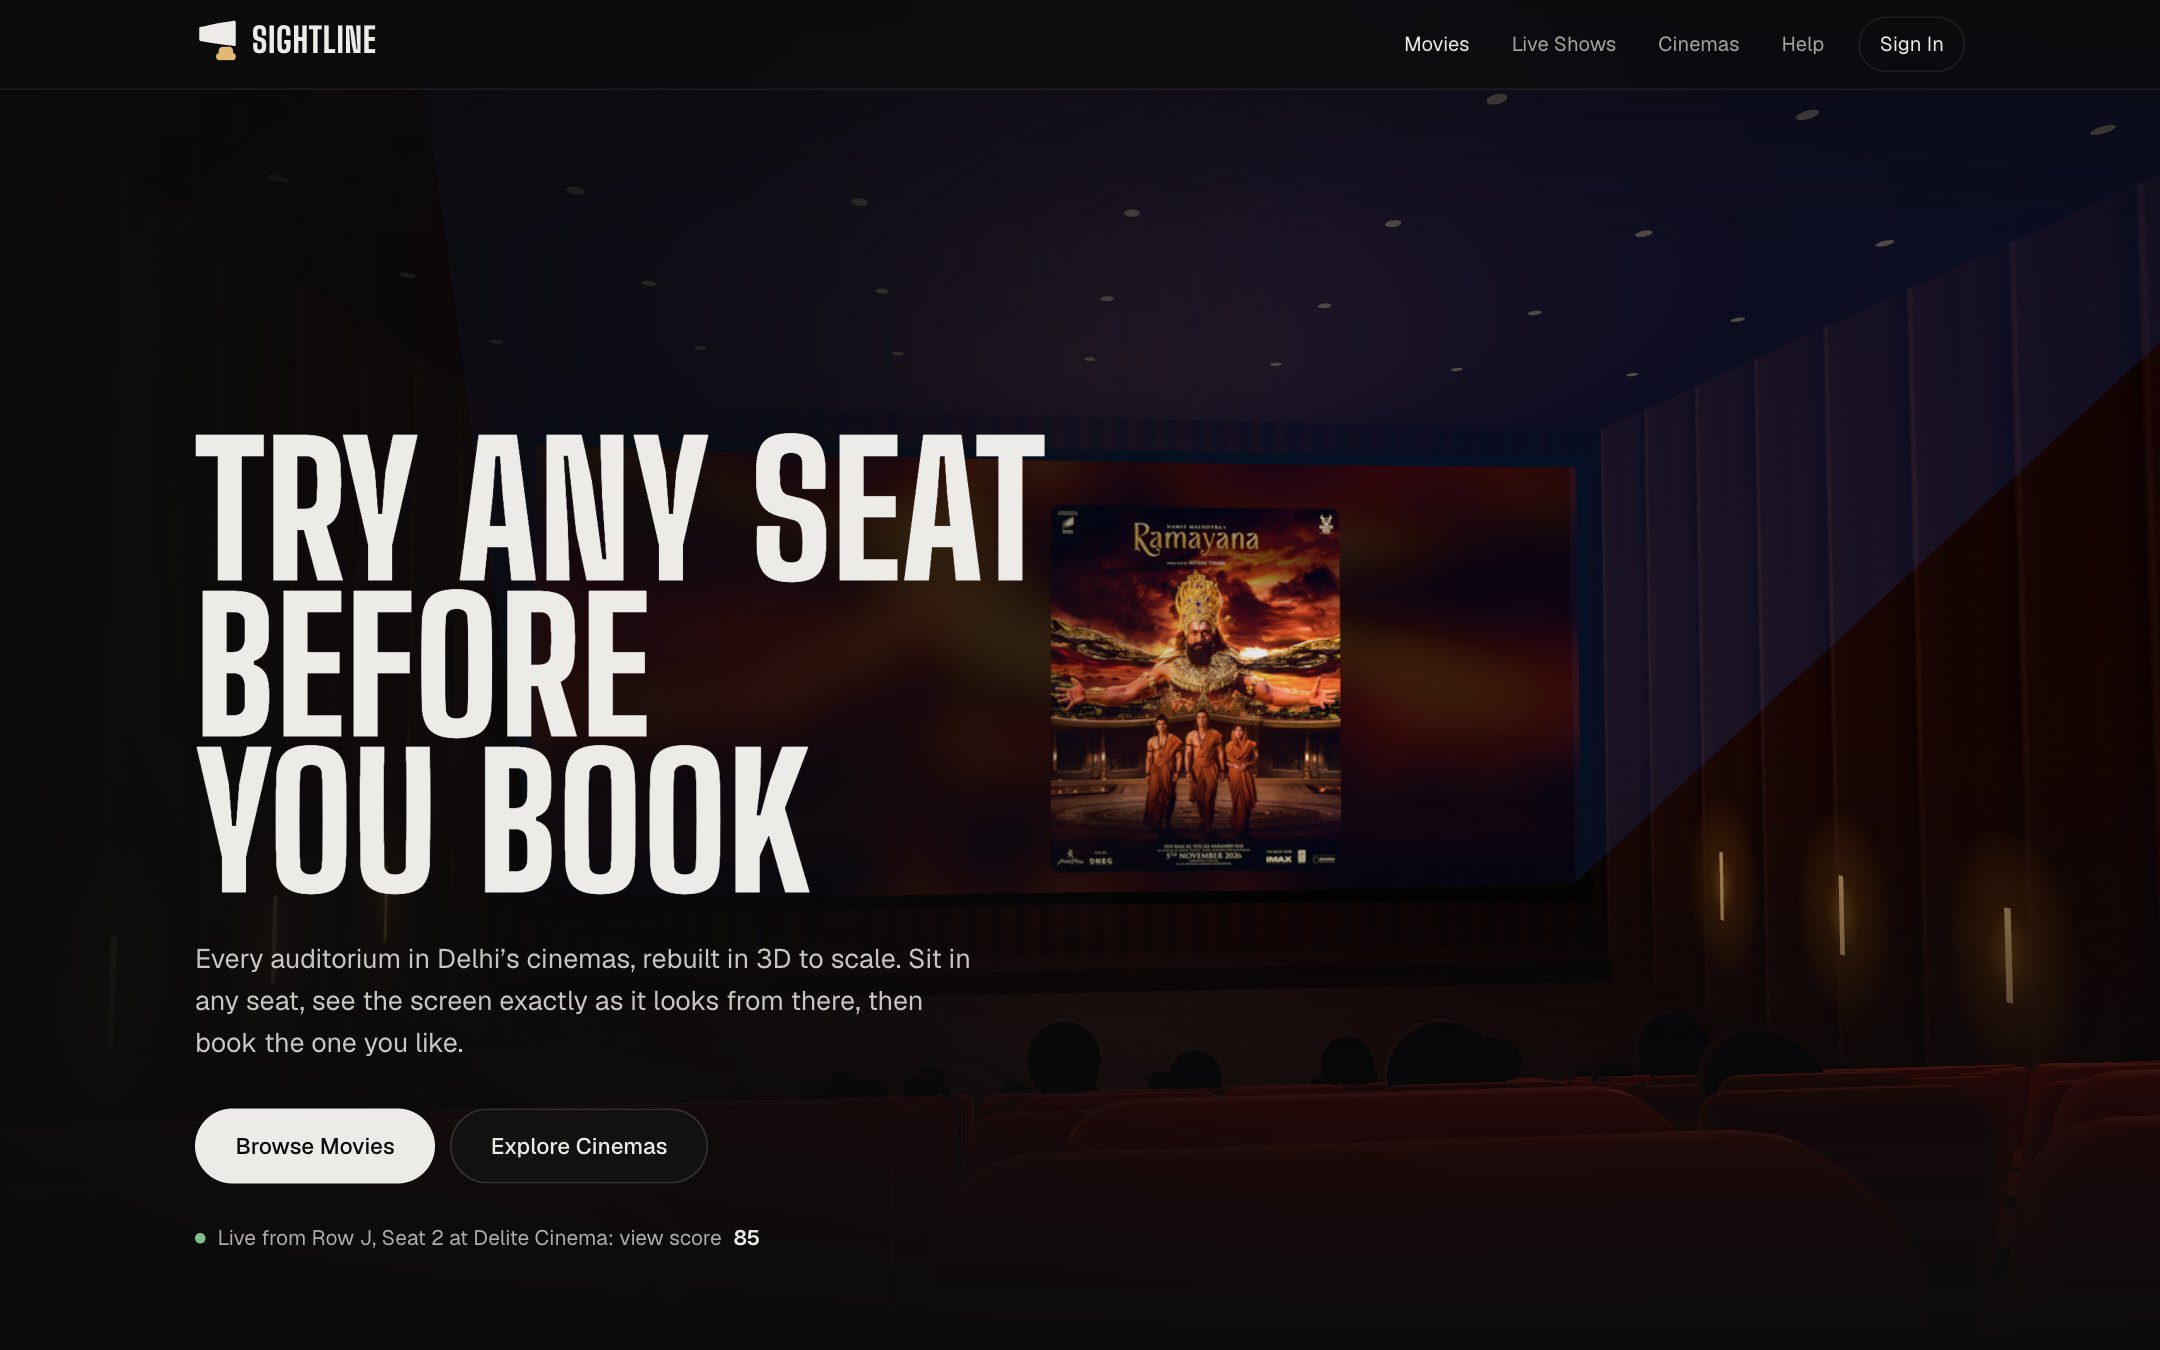
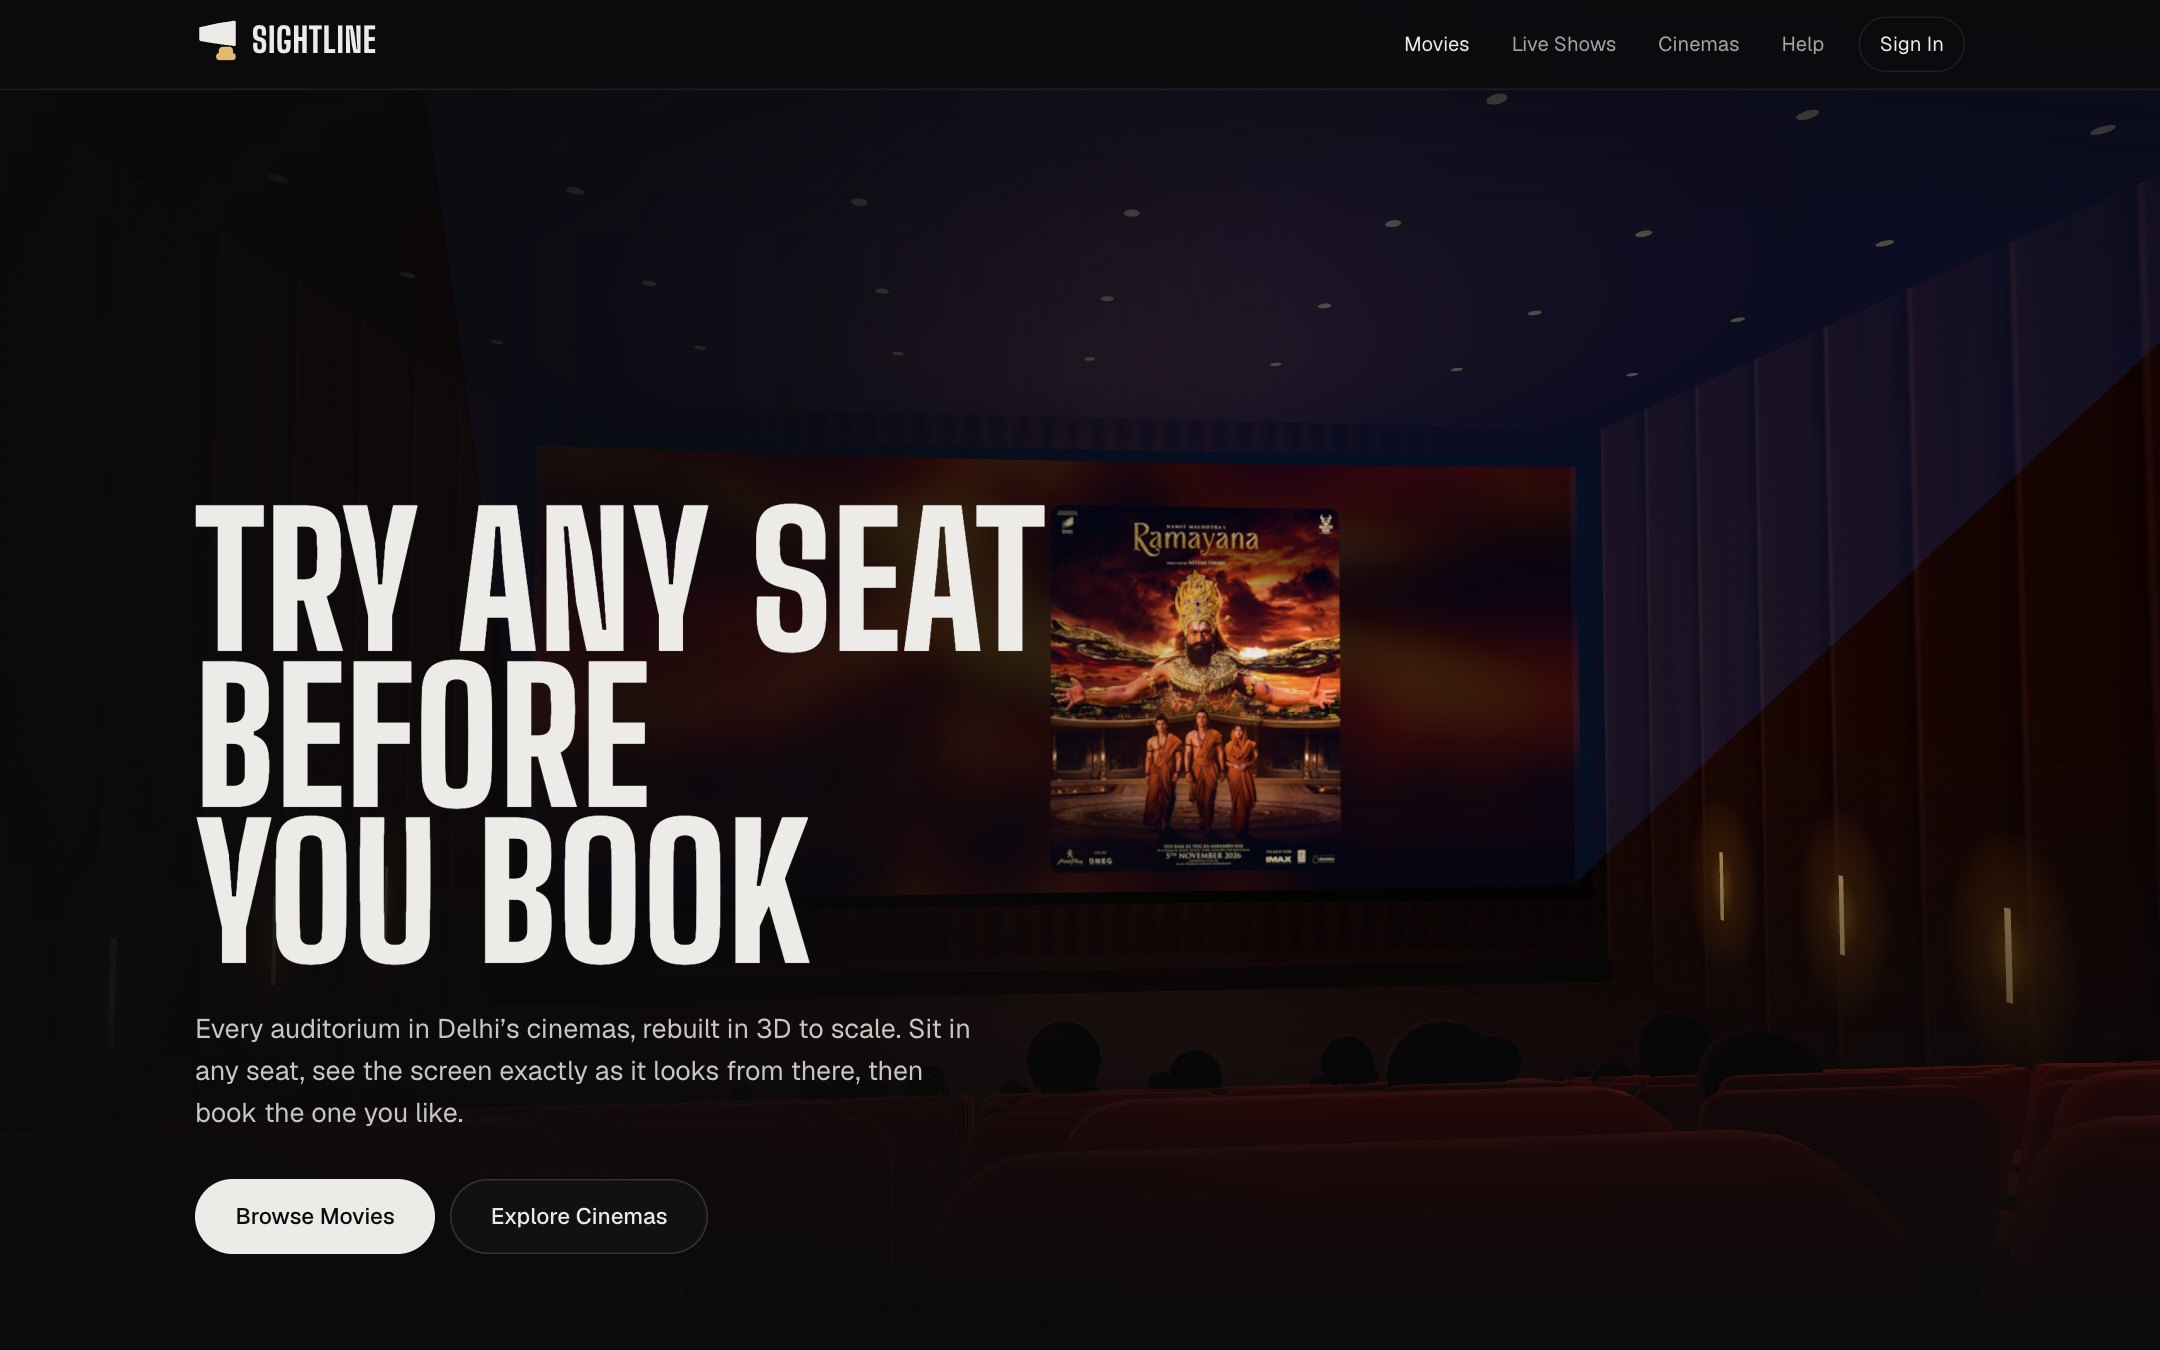
feat(home): let the hero and seat comparison speak for themselves
- Remove the live seat line under the hero buttons
- Show the two-seat renders on their own, with the sentence above
  saying which is the front row and which the best seat

Changed region(s): [[0.0931, 0.3111, 0.4963, 0.9333]]

diff --git a/src/pages/Home.tsx b/src/pages/Home.tsx
@@ -4,7 +4,6 @@ import { Search } from 'lucide-react';
 import { Backdrop, Poster } from '../components/Art';
 import EventCard from '../components/EventCard';
 import MovieCard from '../components/MovieCard';
-import HallPlan from '../components/HallPlan';
 import { CINEMAS } from '../data/cinemas';
 import { sized } from '../data/photos';
 import { EVENTS, MOVIES, languages, crowdFor, dateKey, formatDate, formatTime, showsFor, upcomingDays, venueOf, type Show } from '../data/movies';
@@ -37,8 +36,6 @@ function tourSeats(layout: HallLayout, taken: Set<string>): Seat[] {
   return [layout.byId.get(layout.bestSeatId)!, free(Math.floor(g.length * 0.55), 1), free(g.length - 1, middle(g.length - 1)), free(front, middle(front))];
 }
 
-const tilt = (deg: number) => `${Math.abs(Math.round(deg))}° ${deg >= 0 ? 'up' : 'down'}`;
-
 export default function Home() {
   useTitle();
   const [params, setParams] = useSearchParams();
@@ -66,15 +63,7 @@ export default function Home() {
   const heroTaken = useMemo(() => (heroShow ? crowdFor(heroShow, heroLayout) : new Set<string>()), [heroShow, heroLayout]);
   const tour = useMemo(() => tourSeats(heroLayout, heroTaken), [heroLayout, heroTaken]);
   const heroVenue = heroShow ? venueOf(heroShow) : null;
-  const [seat, setSeat] = useState<Seat | null>(null);
   const [live, setLive] = useState(false);
-
-  // the two seats compared further down, in the same large-screen auditorium
-  const big = getLayout('h2');
-  const front = big.byId.get('C11')!;
-  const best = big.byId.get(big.bestSeatId)!;
-  const fm = big.metrics[front.index];
-  const bm = big.metrics[best.index];
 
   const cinemaCount = (movieId: string) => new Set(showsFor(MOVIES.find((x) => x.id === movieId)!, today).map((g) => g.cinemaId)).size;
   const needle = query.trim().toLowerCase();
@@ -95,7 +84,6 @@ export default function Home() {
               movie={featured}
               occupied={heroTaken}
               tour={tour}
-              onSeat={setSeat}
               onReady={() => setLive(true)}
             />
           </Suspense>
@@ -123,19 +111,6 @@ export default function Home() {
                 Explore Cinemas
               </Link>
             </div>
-            {heroVenue ? (
-              <p className={`hx-now home-hero-live ${live && seat ? 'on' : ''}`} aria-live="polite">
-                <span className="hx-now-dot" aria-hidden="true" />
-                {seat ? (
-                  <>
-                    Live from Row {seat.rowLabel}, Seat {seat.number} at {heroVenue.cinema.name}: view score{' '}
-                    <b>{Math.round(heroLayout.metrics[seat.index].score)}</b>
-                  </>
-                ) : (
-                  'Loading the hall'
-                )}
-              </p>
-            ) : null}
           </div>
 
         </div>
@@ -195,33 +170,28 @@ export default function Home() {
               Same hall, two seats
             </h2>
             <p className="muted hs-lede">
-              A seat map tells you where you’ll sit. SightLine shows what you’ll see from there, from a camera placed at seated eye level in a
-              hall built to scale.
+              A seat map tells you where you’ll sit. SightLine shows what you’ll see from there: first from the front row, then from the
+              best seat in the house.
             </p>
           </div>
         </div>
         <div className="cmp">
-          {[
-            { key: 'front', label: 'Front row', seat: front, metrics: fm, img: '/home/front-row.jpg', alt: 'The screen seen from front-row seat C11: it towers above you and spills past both edges of your view' },
-            { key: 'best', label: 'Best seat', seat: best, metrics: bm, img: '/home/best-seat.jpg', alt: 'The screen seen from seat M11: the whole picture sits at eye level, framed by the hall' },
-          ].map((c) => (
-            <figure key={c.key} className={`cmp-card ${c.key === 'best' ? 'is-best' : ''}`}>
-              <img src={c.img} width={1780} height={980} loading="lazy" decoding="async" alt={c.alt} />
-              <figcaption className="cmp-body">
-                <span className="cmp-score">{Math.round(c.metrics.score)}</span>
-                <span className="cmp-text">
-                  <span className="cmp-label">{c.label}</span>
-                  <b>
-                    Row {c.seat.rowLabel}, Seat {c.seat.number}
-                  </b>
-                  <span>
-                    {c.metrics.distance.toFixed(1)} m from the screen, head tilted {tilt(c.metrics.elevation)}
-                  </span>
-                </span>
-                <HallPlan layout={big} highlight={c.seat.id} className="cmp-plan" />
-              </figcaption>
-            </figure>
-          ))}
+          <img
+            src="/home/front-row.jpg"
+            width={1780}
+            height={980}
+            loading="lazy"
+            decoding="async"
+            alt="The screen seen from the front row, seat C11: it towers above you and spills past both edges of your view"
+          />
+          <img
+            src="/home/best-seat.jpg"
+            width={1780}
+            height={980}
+            loading="lazy"
+            decoding="async"
+            alt="The screen seen from the best seat, M11: the whole picture sits at eye level, framed by the hall"
+          />
         </div>
       </section>
 

diff --git a/src/styles.css b/src/styles.css
@@ -902,26 +902,8 @@ span.actions { display: flex; justify-content: flex-end; }
 
 /* the same hall from two seats */
 .cmp { display: grid; grid-template-columns: repeat(2, minmax(0, 1fr)); gap: 20px; }
-.cmp-card { margin: 0; display: flex; flex-direction: column; border-radius: 18px; overflow: hidden; background: var(--surface); border: 1px solid var(--line); }
-.cmp-card > img { display: block; width: 100%; height: auto; aspect-ratio: 1780 / 980; object-fit: cover; }
-.cmp-body { display: grid; grid-template-columns: auto minmax(0, 1fr) 132px; align-items: center; gap: 18px; padding: 20px 22px 22px; border-top: 1px solid var(--line); }
-.cmp-score { font-family: var(--font-display); font-weight: 800; font-size: 68px; line-height: 0.8; font-variant-numeric: tabular-nums; min-width: 1.5ch; }
-.is-best .cmp-score { color: var(--accent); }
-.cmp-text { display: grid; gap: 3px; font-size: 14px; line-height: 1.45; color: var(--muted); }
-.cmp-label { font-size: 13px; color: var(--faint); }
-.is-best .cmp-label { color: var(--accent); }
-.cmp-text b { font-size: 16px; font-weight: 600; color: var(--text); }
-.hall-plan { display: block; width: 100%; height: auto; }
-.hall-plan rect { fill: var(--seat-free); }
-.hall-plan rect.on { fill: var(--text); }
-.is-best .hall-plan rect.on { fill: var(--accent); }
-.hall-plan-screen { stroke: rgba(255, 255, 255, 0.7); stroke-width: 0.9; }
+.cmp img { display: block; width: 100%; height: auto; aspect-ratio: 1780 / 980; object-fit: cover; border-radius: 18px; border: 1px solid var(--line); background: var(--bg-2); }
 
-/* the line under the hero buttons naming the seat the camera is in */
-.hx-now { display: flex; align-items: center; gap: 8px; margin-top: 26px; font-size: 14px; color: rgba(236, 235, 231, 0.72); opacity: 0; transition: opacity 0.4s ease; }
-.hx-now.on { opacity: 1; }
-.hx-now b { color: var(--text); font-weight: 600; font-variant-numeric: tabular-nums; }
-.hx-now-dot { flex: none; width: 7px; height: 7px; border-radius: 50%; background: var(--available); }
 
 /* cinemas as photo tiles */
 .ct-grid { list-style: none; margin: 0; padding: 0; display: grid; grid-template-columns: repeat(4, minmax(0, 1fr)); gap: 12px; }
@@ -949,9 +931,6 @@ span.actions { display: flex; justify-content: flex-end; }
   .cmp { grid-template-columns: 1fr; }
 }
 @media (max-width: 520px) {
-  .cmp-body { grid-template-columns: auto minmax(0, 1fr); }
-  .cmp-plan { display: none; }
-  .cmp-score { font-size: 52px; }
   .ct-text b { font-size: 22px; }
 }
 @media (prefers-reduced-motion: reduce) { .hx-title, .hx-lede { animation: none; } }

diff --git a/src/components/HeroHall.tsx b/src/components/HeroHall.tsx
@@ -11,7 +11,7 @@ interface Props {
   occupied: Set<string>;
   /** seats to visit, in order */
   tour: Seat[];
-  onSeat: (seat: Seat) => void;
+  onSeat?: (seat: Seat) => void;
   onReady: () => void;
 }
 
@@ -56,7 +56,7 @@ export default function HeroHall({ layout, movie, occupied, tour, onSeat, onRead
       if (!visible || document.hidden) return;
       const seat = tour[step % tour.length];
       scene.enterSeatView(seat.id, GLIDE);
-      cb.current.onSeat(seat);
+      cb.current.onSeat?.(seat);
       step += 1;
       if (reduced) return; // one still seat view, no tour
       timer = window.setTimeout(next, HOLD_SEAT);

diff --git a/tests/e2e/test_flows.py b/tests/e2e/test_flows.py
@@ -74,20 +74,18 @@ def run() -> None:
 
         def live_hall():
             # the 3D hall loads after the page and starts its tour
-            expect(page.locator(".home-hero-live.on")).to_contain_text("view score", timeout=20000)
+            expect(page.locator(".hx-still.off")).to_have_count(1, timeout=20000)
             expect(page.locator(".hero-hall canvas")).to_have_count(1)
 
         check("home: the live 3D hall starts", live_hall)
 
         def seat_comparison():
-            cards = page.locator(".cmp-card")
-            expect(cards).to_have_count(2)
-            scores = [int(cards.nth(i).locator(".cmp-score").inner_text()) for i in range(2)]
-            assert scores[1] > scores[0], f"the best seat should outscore the front row: {scores}"
-            page.wait_for_function("[...document.querySelectorAll('.cmp-card img')].every(i => i.naturalWidth > 0 || i.loading === 'lazy')")
-            expect(cards.nth(1).locator(".hall-plan rect.on")).to_have_count(1)
+            shots = page.locator(".cmp img")
+            expect(shots).to_have_count(2)
+            shots.nth(1).scroll_into_view_if_needed()
+            page.wait_for_function("[...document.querySelectorAll('.cmp img')].every(i => i.complete && i.naturalWidth > 0)", timeout=15000)
 
-        check("home: the two-seat comparison shows both scores", seat_comparison)
+        check("home: the two-seat comparison shows both views", seat_comparison)
 
         def language_filter():
             page.get_by_role("button", name="Tamil", exact=True).click()

diff --git a/DESIGN.md b/DESIGN.md
@@ -299,15 +299,12 @@ Two families. Anything pressed is a full pill (`999px`): buttons, chips, tabs, s
 
 ### Home Hero
 - The live 3D hall fills the first screen, playing the lead movie with its real poster on the screen, placed right of centre so it stays clear of the headline. The camera flies in once, then glides slowly from seat to seat (the best seat, an off-centre seat, the back row, near the front).
-- Left: the Marquee Hero headline, capped at about five of its own letter-widths so it wraps to three lines and never covers the poster; one sentence on how it works; Browse Movies (Primary) and Explore Cinemas (Glass); then one quiet line with an Available dot naming the seat the camera is in, its cinema and its view score. No panel or card sits over the hall.
+- Left: the Marquee Hero headline, capped at about five of its own letter-widths so it wraps to three lines and never covers the poster; one sentence on how it works; then Browse Movies (Primary) and Explore Cinemas (Glass). Nothing else sits over the hall: no panel, card or caption.
 - The headline and sentence rise in once on load (reduced motion: no movement). A scrim darkens the left for the copy and fades into the page at the bottom.
 - Under 860px the hall gets its own frame at the top, about half the screen tall, and the headline overlaps its lower edge.
 
 ### Seat Comparison
-- "Same hall, two seats": two cards side by side (stacked on phones), each a real render of the same large-screen auditorium with the house lights up, one from the front row and one from the best seat. Below each render, never over it: the view score as a large marquee number (Paper for the front row, Tungsten for the best seat), a small label ("Front row", "Best seat" in Tungsten), the seat name, its distance and head tilt, and a small Hall Plan with that seat marked. The plan is dropped on narrow phones.
-
-### Hall Plan
-- A small static plan drawn from a hall's real geometry: the screen as a thin Paper arc, every seat as a Seat Free square, and one marked seat (Paper, or Tungsten for the best seat). Used only in the Seat Comparison, beside text that states the same facts.
+- "Same hall, two seats": two real renders of the same large-screen auditorium with the house lights up, side by side (stacked on phones): first from the front row, then from the best seat. The images stand alone in rounded frames with a hairline border; the sentence above says which is which. No caption, overlay or score on the images.
 
 ### Cinema Tiles
 - On the home page all eight cinemas sit in a 4 by 2 grid of 4:3 photo tiles (2 columns on tablets and phones), each a link: the photo, a dark fade at the bottom, the name in marquee capitals and the area beneath. Stand-in photos keep their "Representative photo" pill. The photo zooms 4% on hover.
